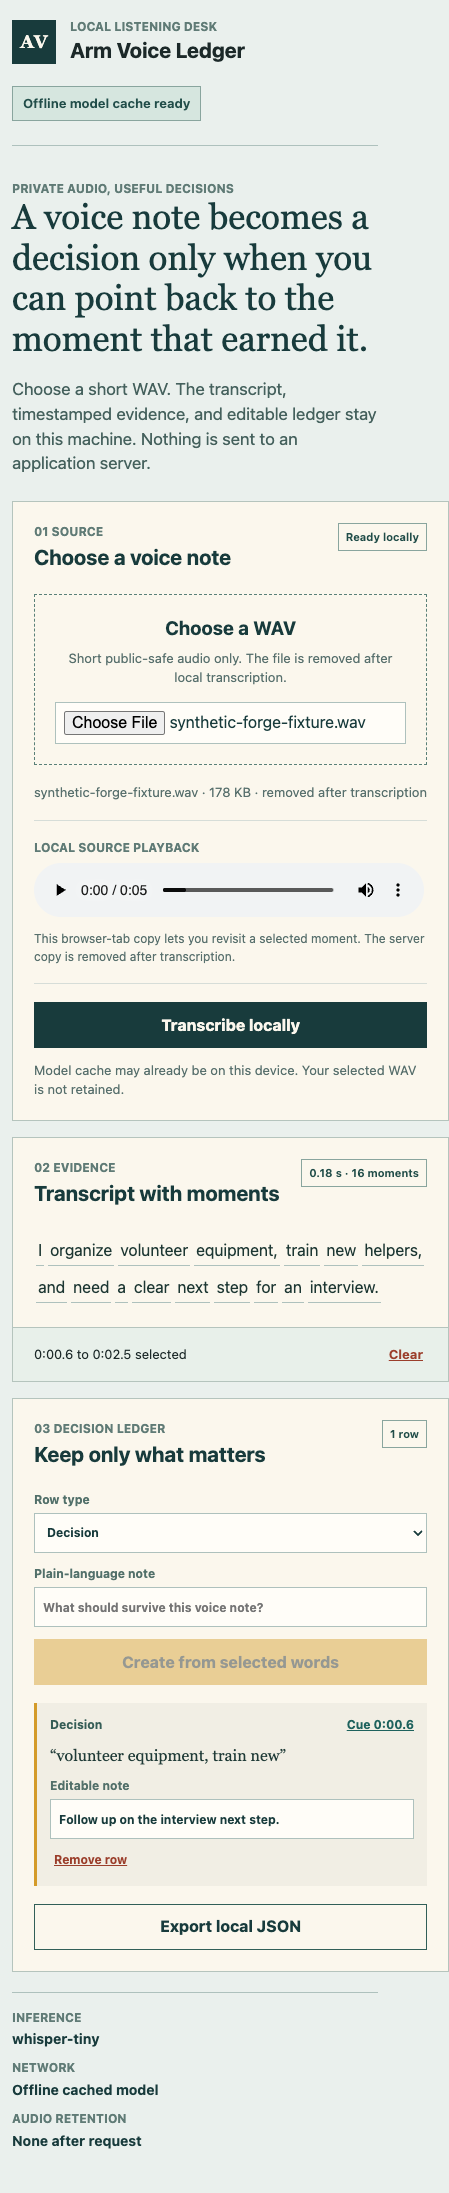
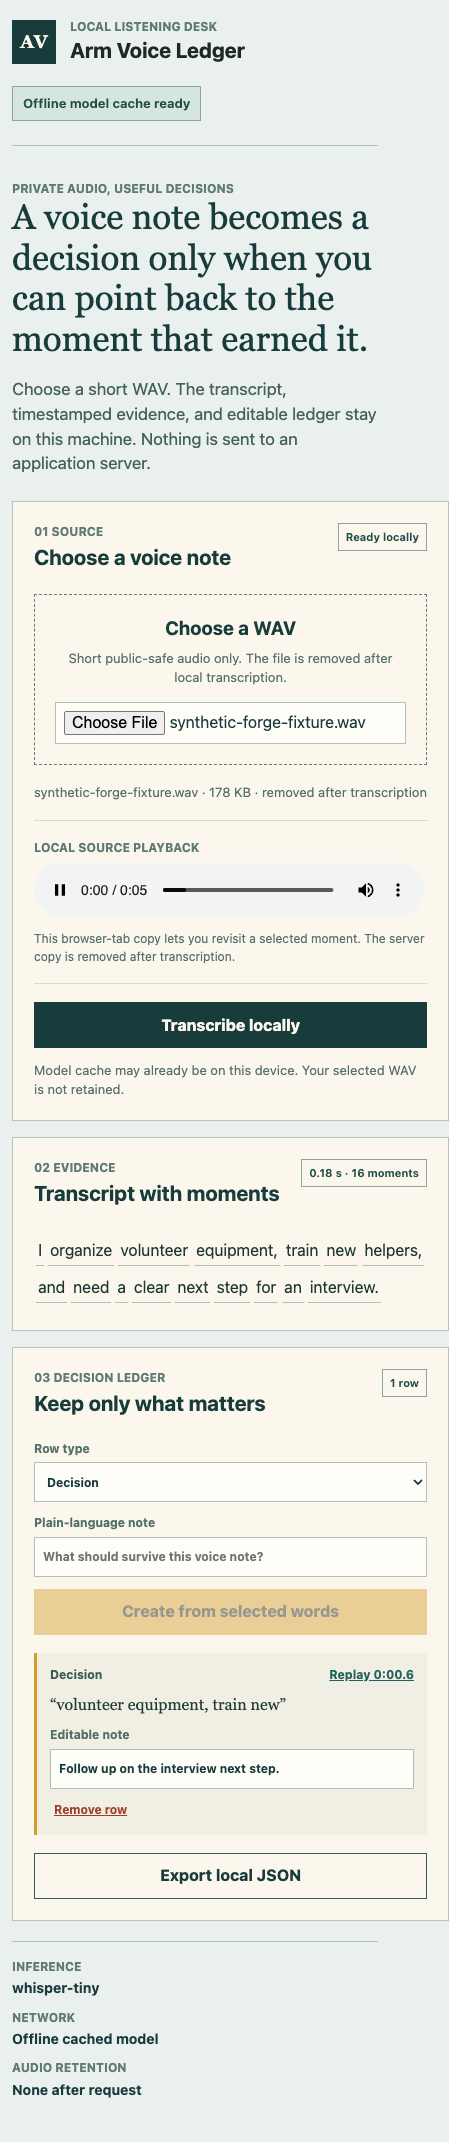
fix: make the Arm proof reproducible and replayable

diff --git a/web/app.js b/web/app.js
@@ -84,6 +84,8 @@ function renderWords() {
 function cueSource(seconds) {
   if (!state.file) return;
   elements.sourcePlayer.currentTime = Number(seconds || 0);
+  const playback = elements.sourcePlayer.play();
+  if (playback) playback.catch(() => {});
   elements.sourcePlayer.focus({ preventScroll: true });
 }
 
@@ -111,8 +113,8 @@ function renderLedger() {
     const item = fragment.querySelector(".ledger-row");
     fragment.querySelector(".row-kind").textContent = row.type;
     const timeButton = fragment.querySelector(".row-time");
-    timeButton.textContent = `Cue ${formatTime(row.start)}`;
-    timeButton.title = `Cue the local source at ${formatTime(row.start)}`;
+    timeButton.textContent = `Replay ${formatTime(row.start)}`;
+    timeButton.title = `Replay the local source from ${formatTime(row.start)}`;
     timeButton.addEventListener("click", () => cueSource(row.start));
     fragment.querySelector(".row-quote").textContent = `“${row.quote}”`;
     const noteInput = fragment.querySelector(".row-note-input");

diff --git a/web/styles.css b/web/styles.css
@@ -6,6 +6,7 @@
 }
 
 * { box-sizing: border-box; }
+[hidden] { display: none !important; }
 
 body { margin: 0; min-width: 320px; background: #eaf0ed; }
 

diff --git a/tests/test_server.py b/tests/test_server.py
@@ -40,9 +40,12 @@ class ServerContractTests(unittest.TestCase):
     def test_listening_desk_exposes_local_source_playback(self):
         document = (server.WEB_ROOT / "index.html").read_text(encoding="utf-8")
         behavior = (server.WEB_ROOT / "app.js").read_text(encoding="utf-8")
+        styles = (server.WEB_ROOT / "styles.css").read_text(encoding="utf-8")
         self.assertIn('id="source-player"', document)
         self.assertIn("URL.createObjectURL(file)", behavior)
         self.assertIn("cueSource", behavior)
+        self.assertIn("sourcePlayer.play()", behavior)
+        self.assertIn("[hidden] { display: none !important; }", styles)
 
     def test_configures_a_private_ffmpeg_path(self):
         fake_module = type("FakeImageIoFfmpeg", (), {"get_ffmpeg_exe": staticmethod(lambda: "/private/ffmpeg")})

diff --git a/docs/ARM_CONTEST_SUBMISSION.md b/docs/ARM_CONTEST_SUBMISSION.md
@@ -1,0 +1,106 @@
+# Arm Voice Ledger - Arm Create Submission Draft
+
+## Track
+
+**Mobile AI**
+
+## One-line pitch
+
+Arm Voice Ledger turns a short voice note into a small, editable decision
+ledger where every saved item can replay the exact local audio moment that
+earned it.
+
+## Project overview
+
+Voice notes are wonderfully quick to create and notoriously hard to recover.
+Most transcription tools flatten them into a summary that is difficult to
+trust: the useful decision and the evidence for it get separated.
+
+Arm Voice Ledger is a deliberately narrow local listening desk for Apple
+silicon. A person chooses a short WAV, MLX Whisper returns word-level
+timestamps, and the person selects only the ranges worth preserving as
+decisions, next actions, or questions. Each row remains editable and its
+**Replay** control returns to the exact local source moment.
+
+This is not a meeting summarizer. It is a small evidence loop: source ->
+timestamped moment -> human-owned decision -> replayable proof.
+
+## Why it belongs in Mobile AI
+
+The project uses MLX Whisper on Arm64 Apple silicon rather than sending the
+selected audio to an application server. The small `whisper-tiny` model is
+chosen for a bounded, local workflow. After an explicit first-run cache warm,
+the default runner forces both Hugging Face and Transformers into offline mode.
+
+That produces a practical Mobile AI optimization story:
+
+- local Arm64 inference for a short voice-note workflow;
+- word-level timestamps turned into reusable interaction, not just displayed;
+- no user account, no transcription database, and no application-server audio
+  path;
+- a reproducible cache-warm then offline-replay setup for another Apple-silicon
+  developer.
+
+## What it does
+
+1. A person selects a short WAV (up to 8 MB).
+2. The local server uses MLX Whisper and removes its temporary request file
+   before returning the result.
+3. Timestamped words appear as selectable evidence.
+4. A selected range becomes an editable Decision, Next action, or Question.
+5. The saved row replays the local browser-tab source from its evidence point.
+6. The person can explicitly export the ledger as local JSON.
+
+## Measured proof
+
+All measurements below use a local synthetic/public-safe fixture. No personal,
+customer, or client audio was used. The fixture is intentionally not committed
+to the public repository.
+
+| Surface | Result |
+| --- | --- |
+| Forge vertical proof | Apple M2 Pro / 16 GiB unified memory; 16 timestamped words; cached offline model; source and ledger replay verified |
+| Fresh current setup | Apple M4 / 32 GiB unified memory; `mlx==0.32.0`, `mlx-whisper==0.4.3`, `imageio-ffmpeg==0.6.0` installed from the pinned requirements |
+| First-run cache warm | 16 timestamped words in 339 ms; `offlineModelCache=false`; `audioPersisted=false` |
+| Offline smoke replay | 16 timestamped words in 2.359 s; `offlineModelCache=true`; `audioPersisted=false` |
+| Desktop and mobile browser gate | 16 words, one editable ledger row, local source URL, replay started from both evidence paths, JSON export, no console errors |
+
+Current visual evidence:
+
+- [Desktop listening desk](../demo/forge-listening-desk-desktop.png)
+- [Mobile listening desk](../demo/forge-listening-desk-mobile.png)
+
+## How to run and validate
+
+Run the pinned setup and first local cache warm from the [README](../README.md).
+Then use the explicit smoke command with any short public-safe WAV:
+
+```bash
+VOICE_LEDGER_URL=http://127.0.0.1:8788 \
+  ./.venv/bin/python scripts/forge_smoke.py /path/to/public-safe-fixture.wav
+```
+
+The server binds to `127.0.0.1` only. The health endpoint reports the selected
+model, whether the cache is offline, and that request audio is not retained.
+The unit suite validates input guards, source-name safety, private ffmpeg setup,
+timestamp extraction, offline-mode behavior, and local source replay support.
+For the optional desktop/mobile browser interaction gate, run `npm install`,
+start the local server, and use `npm run test:browser` as documented in the
+README.
+
+## Why this should win
+
+The project makes on-device model output useful rather than merely local. A
+word timestamp is not treated as decoration: it is the bridge between a human
+decision and the audio that supports it. The result is a clear, small workflow
+that shows Arm64 local inference, a replayable trust mechanism, and a setup
+another developer can reproduce.
+
+## Honest limits
+
+- WAV only, up to 8 MB.
+- The proof uses a short English synthetic fixture.
+- No claim is made about noisy-phone audio, multilingual quality, long
+  recordings, battery impact, or a mobile-phone build.
+- The browser-tab source exists only for local replay during the current
+  session; server-side request audio is removed after transcription.

diff --git a/README.md b/README.md
@@ -15,6 +15,26 @@ Voice notes are easy to make and hard to recover later. Arm Voice Ledger turns
 a local recording into an editable decision ledger without an application
 server audio path.
 
+## Why Arm64
+
+Arm Voice Ledger is designed for the Mobile AI track of the Arm Create: AI
+Optimization Challenge. It uses MLX Whisper on Apple silicon to keep short
+voice-note transcription on the device, then turns word-level timestamps into
+replayable, editable decision rows. The optimization is deliberately practical:
+after the first local cache warm, the normal runner forces the model cache
+offline so the proof can be repeated without an application-server audio path.
+
+The checked vertical proof ran on two Arm64 Macs:
+
+- Forge: Apple M2 Pro / 16 GiB unified memory, cached offline model, 16
+  timestamped words from a synthetic fixture.
+- Current replay: Apple M4 / 32 GiB unified memory, cached offline model, 16
+  timestamped words, source replay, ledger export, and no browser console
+  errors on both desktop and mobile viewports.
+
+See [the contest submission draft](docs/ARM_CONTEST_SUBMISSION.md) for the
+measured proof, limits, and a judge-ready description.
+
 ## Apple-silicon setup
 
 This first vertical proof targets an Apple-silicon Mac. It was measured on the
@@ -70,6 +90,20 @@ VOICE_LEDGER_URL=http://127.0.0.1:18788 ./.venv/bin/python scripts/forge_smoke.p
 The smoke test checks that timestamped words return while the model cache is
 forced offline and that audio retention is reported as false.
 
+## Optional browser proof
+
+With the server running on port `18788` and the synthetic fixture present in
+your local checkout, run the interaction gate used for the screenshot evidence:
+
+```bash
+npm install
+ARM_VOICE_LEDGER_URL=http://127.0.0.1:18788 npm run test:browser
+```
+
+It checks the desktop and mobile paths through transcription, evidence
+selection, decision creation, local source replay, JSON export, cleared-state
+behavior, and browser console errors.
+
 ## Local tests
 
 ```bash
@@ -82,6 +116,8 @@ python3 -m unittest discover -s tests -v
 - The included Forge run uses synthetic/public-safe audio.
 - The repository does not include voice recordings. Use your own
   non-sensitive WAV for first-run and smoke checks.
+- This is a focused local workflow, not a claim about multilingual accuracy,
+  noisy recordings, long meetings, battery life, or mobile-phone deployment.
 - No quality, privacy, multilingual, or long-recording claim is made beyond
   the tested local cached-model path.
 - The app creates no user account and writes no transcript or ledger to a
